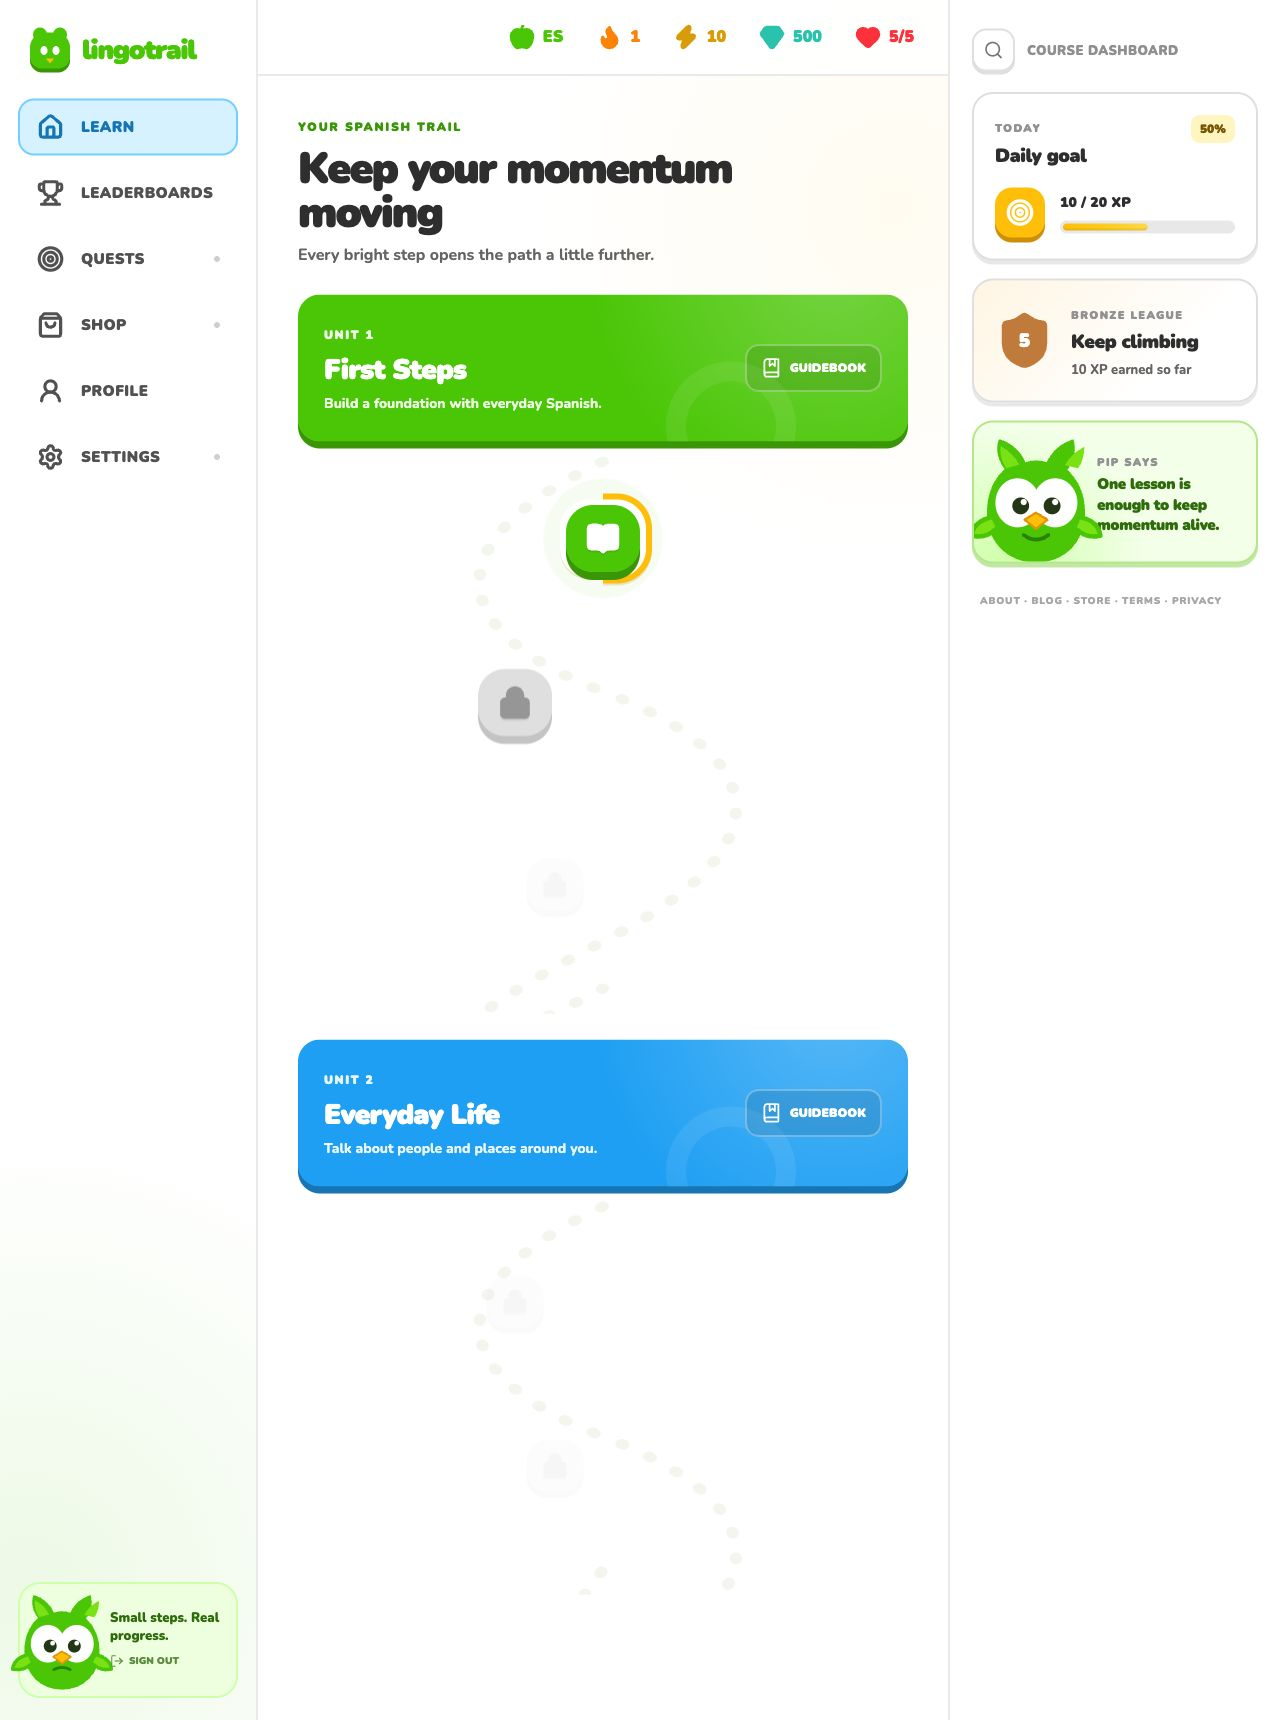
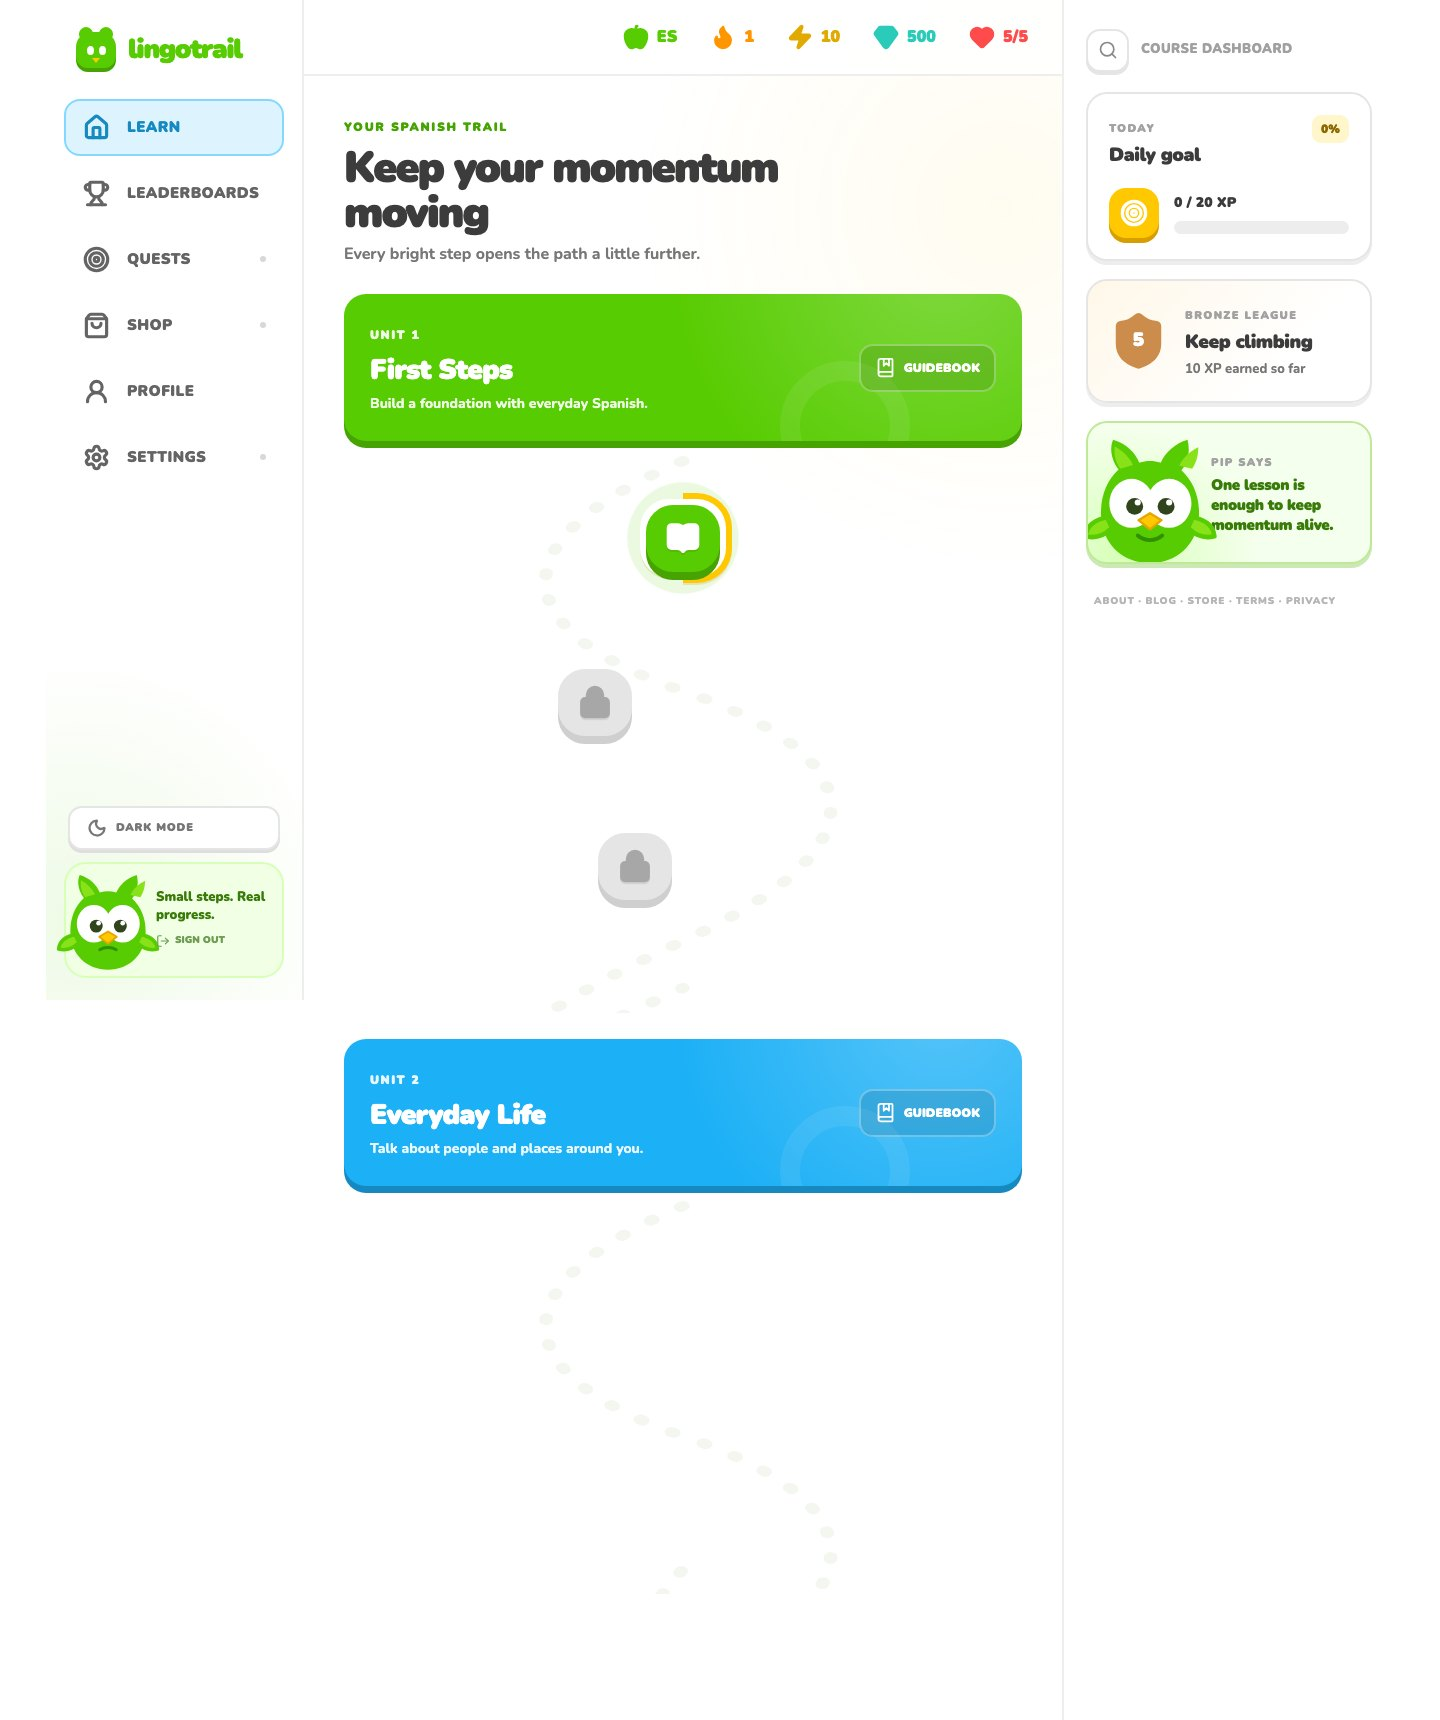
docs(readme): align submission evidence with production

diff --git a/README.md b/README.md
@@ -6,7 +6,7 @@ A full-stack web application that recreates Duolingo's core learning loop. Learn
 ![Next.js](https://img.shields.io/badge/Next.js-16-black.svg)
 ![FastAPI](https://img.shields.io/badge/FastAPI-Python_3.12-009688.svg)
 ![Database](https://img.shields.io/badge/Database-SQLite-003B57.svg)
-![Tests](https://img.shields.io/badge/tests-74_passing-2EA44F.svg)
+![Tests](https://img.shields.io/badge/tests-79_passing-2EA44F.svg)
 
 [Live Application](https://lingotrail-scaler.vercel.app) ·
 [API Health](https://lingotrail-api-139-59-18-245.sslip.io/api/v1/health) ·
@@ -40,6 +40,14 @@ LingoTrail demonstrates a modern, gamified language-learning workflow with datab
 
 FastAPI owns lesson rules and persistence while Next.js renders the interactive course path and lesson player. SQLite stores content, attempts, progress, daily activity, and achievements for every learner.
 
+### Assumptions
+
+- One seeded Spanish course is sufficient for the assignment scope
+- Every evaluator creates an account; there are no shared default credentials
+- Seeded leaderboard competitors are synthetic and cannot authenticate
+- Hearts refill is mocked; audio, subscriptions, and social features remain placeholders
+- Production runs as one FastAPI process with a persistent SQLite database
+
 ![LingoTrail learning path](.github/assets/learning-path.jpg)
 
 ![LingoTrail learner profile](.github/assets/profile.jpg)
@@ -66,6 +74,7 @@ FastAPI owns lesson rules and persistence while Next.js renders the interactive 
 
 - **Protected Answers**: Canonical answers are excluded from public lesson responses
 - **Secure Authentication**: Argon2id password hashes and signed HttpOnly session cookies
+- **Request Protection**: Production rate limits protect authentication and lesson mutations
 - **Data Integrity**: Ownership checks, relational constraints, and recoverable error states
 
 ## System Architecture
@@ -245,6 +254,7 @@ POST   /api/v1/hearts/refill                   # Restore learner hearts
 GET    /api/v1/profile                         # Retrieve profile and achievements
 GET    /api/v1/leaderboard                     # Retrieve ranked learners
 GET    /api/v1/health                          # Check API availability
+GET    /api/v1/ready                           # Verify database and course readiness
 GET    /docs                                   # Open interactive Swagger UI
 ```
 
@@ -311,7 +321,7 @@ duolingo-clone/
 
 ### Quality & Testing
 
-- `pnpm check` runs linting, strict type checks, 74 tests, and production builds
+- `pnpm check` runs linting, strict type checks, 79 tests, and production builds
 - Tests cover APIs, authentication, progression, lessons, UI states, and themes
 
 ### Error Handling
@@ -324,7 +334,7 @@ duolingo-clone/
 
 - TanStack Query caches server state and mutations invalidate affected keys
 - Frequently joined foreign keys are indexed
-- Caddy compresses responses; Redis caching and rate limiting are future upgrades
+- Caddy compresses responses; Redis caching remains a future scaling option
 
 ---
 
